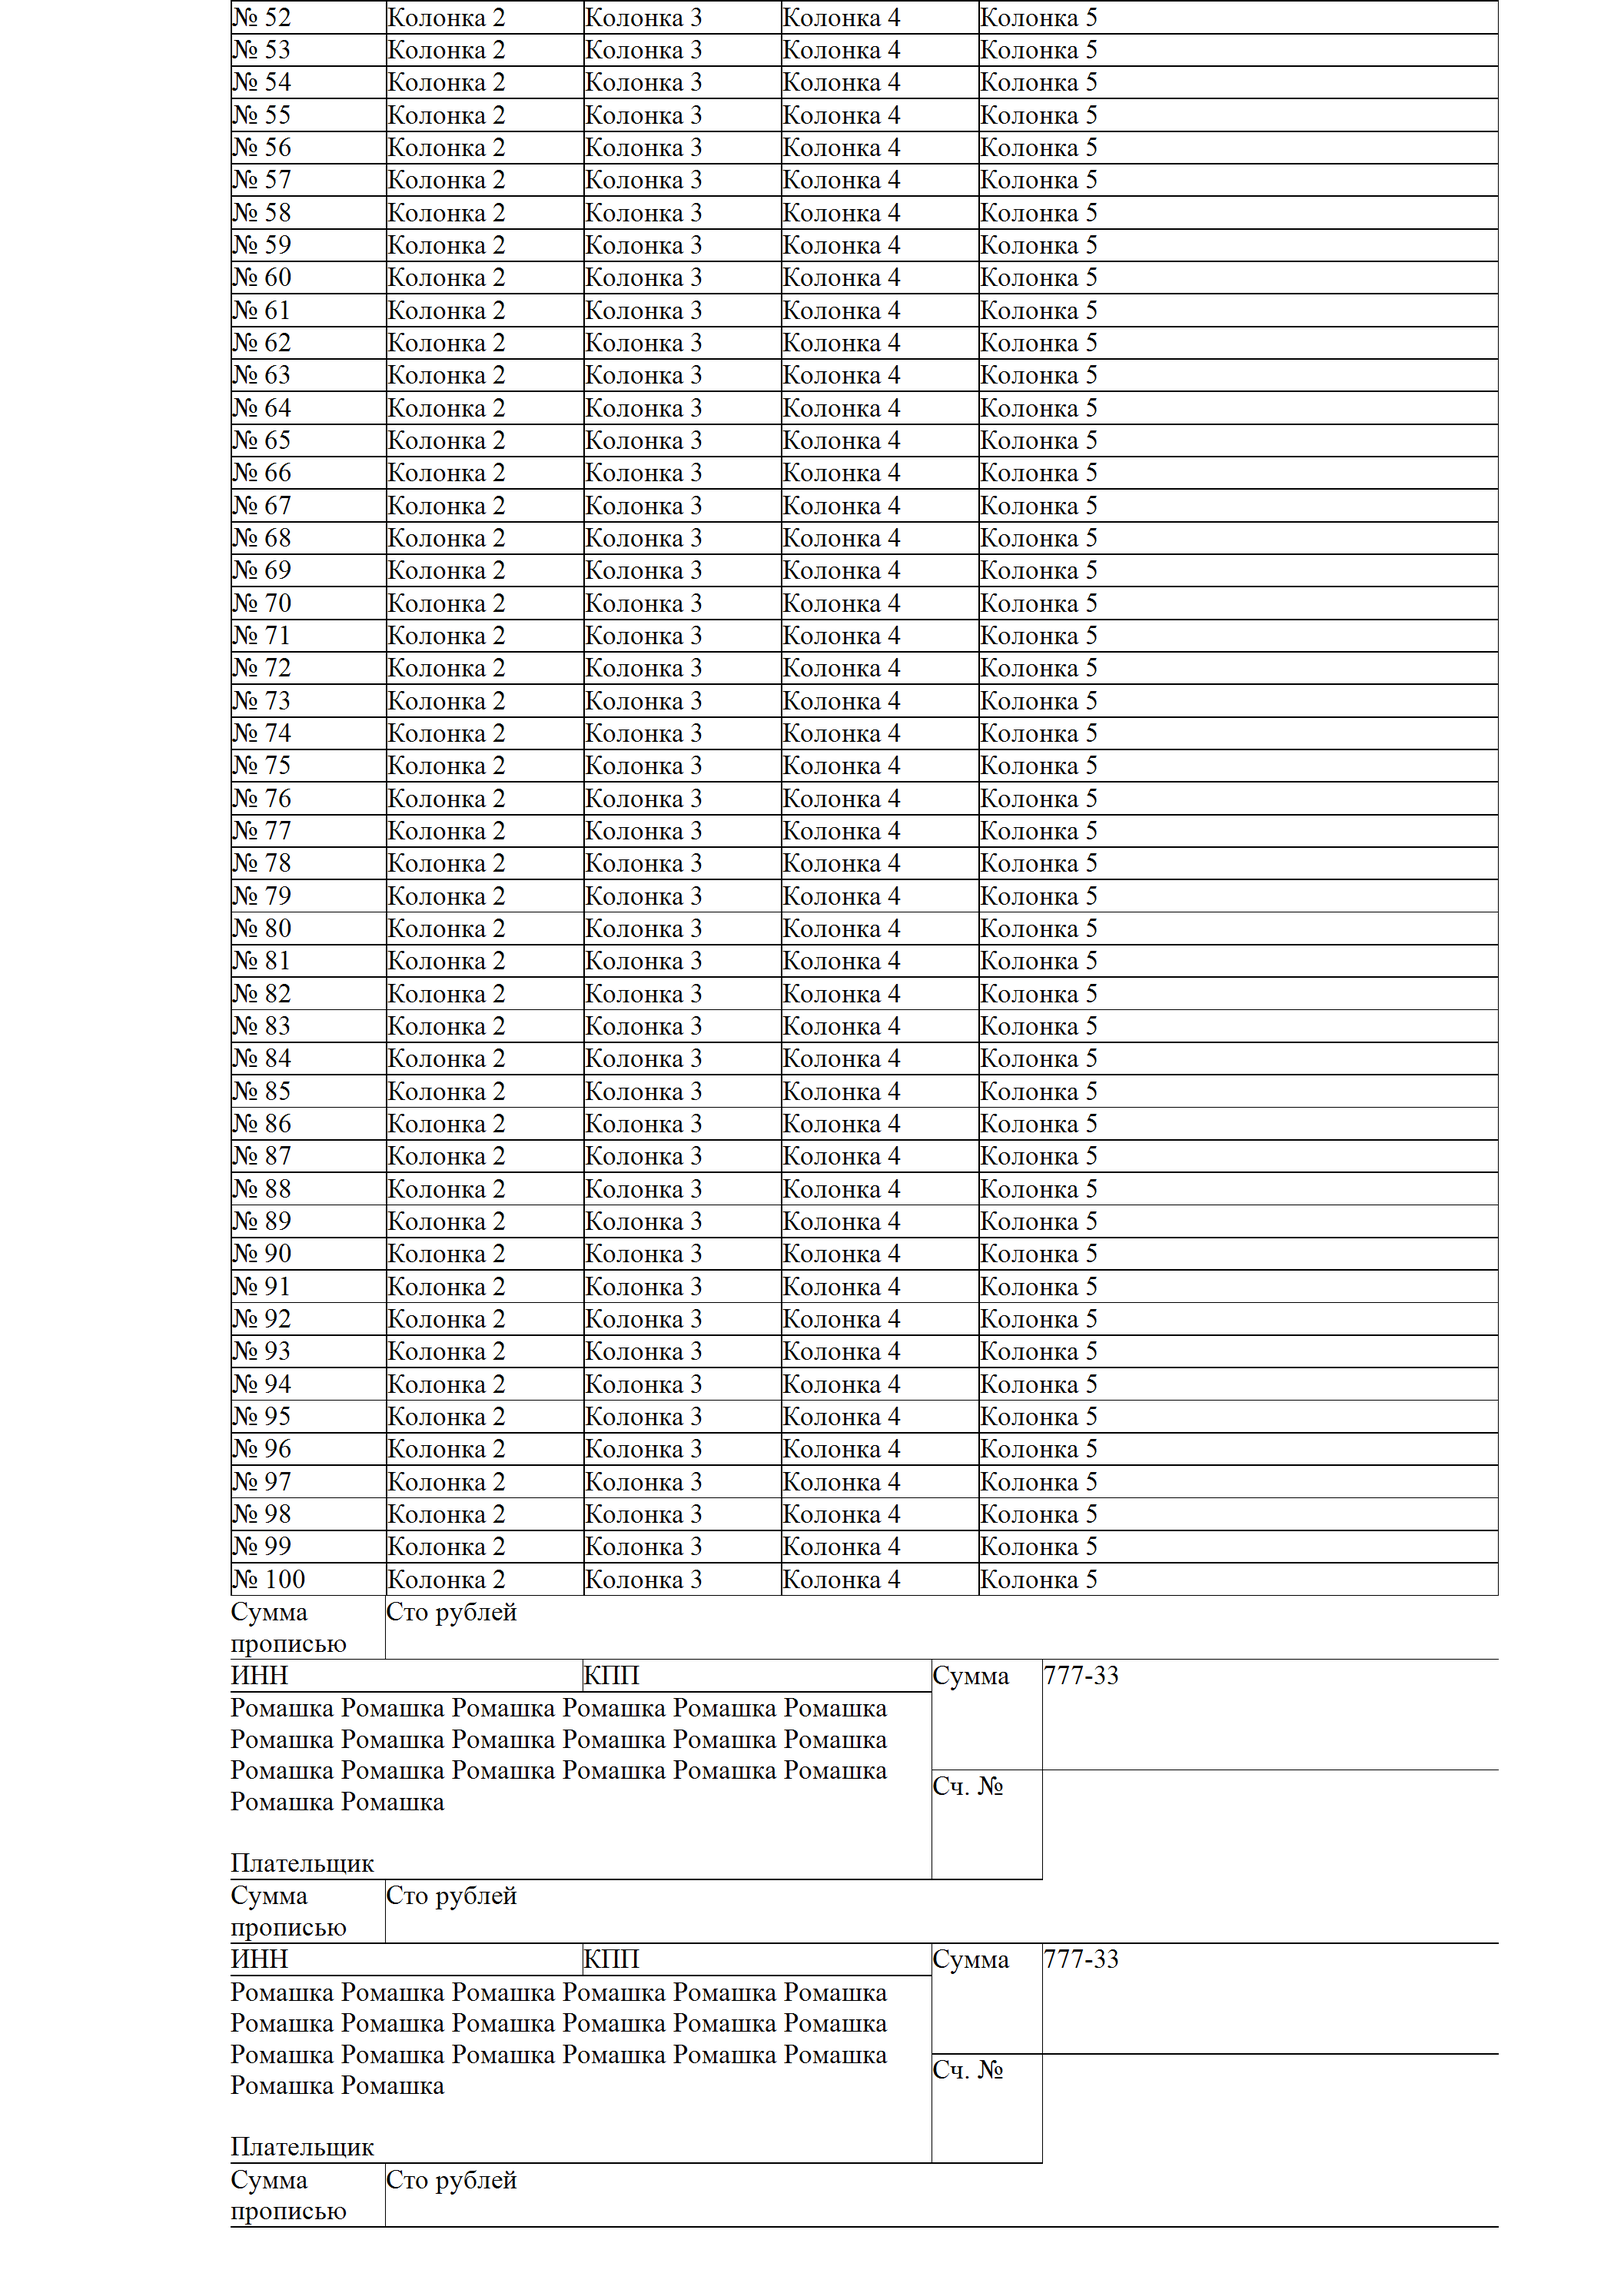
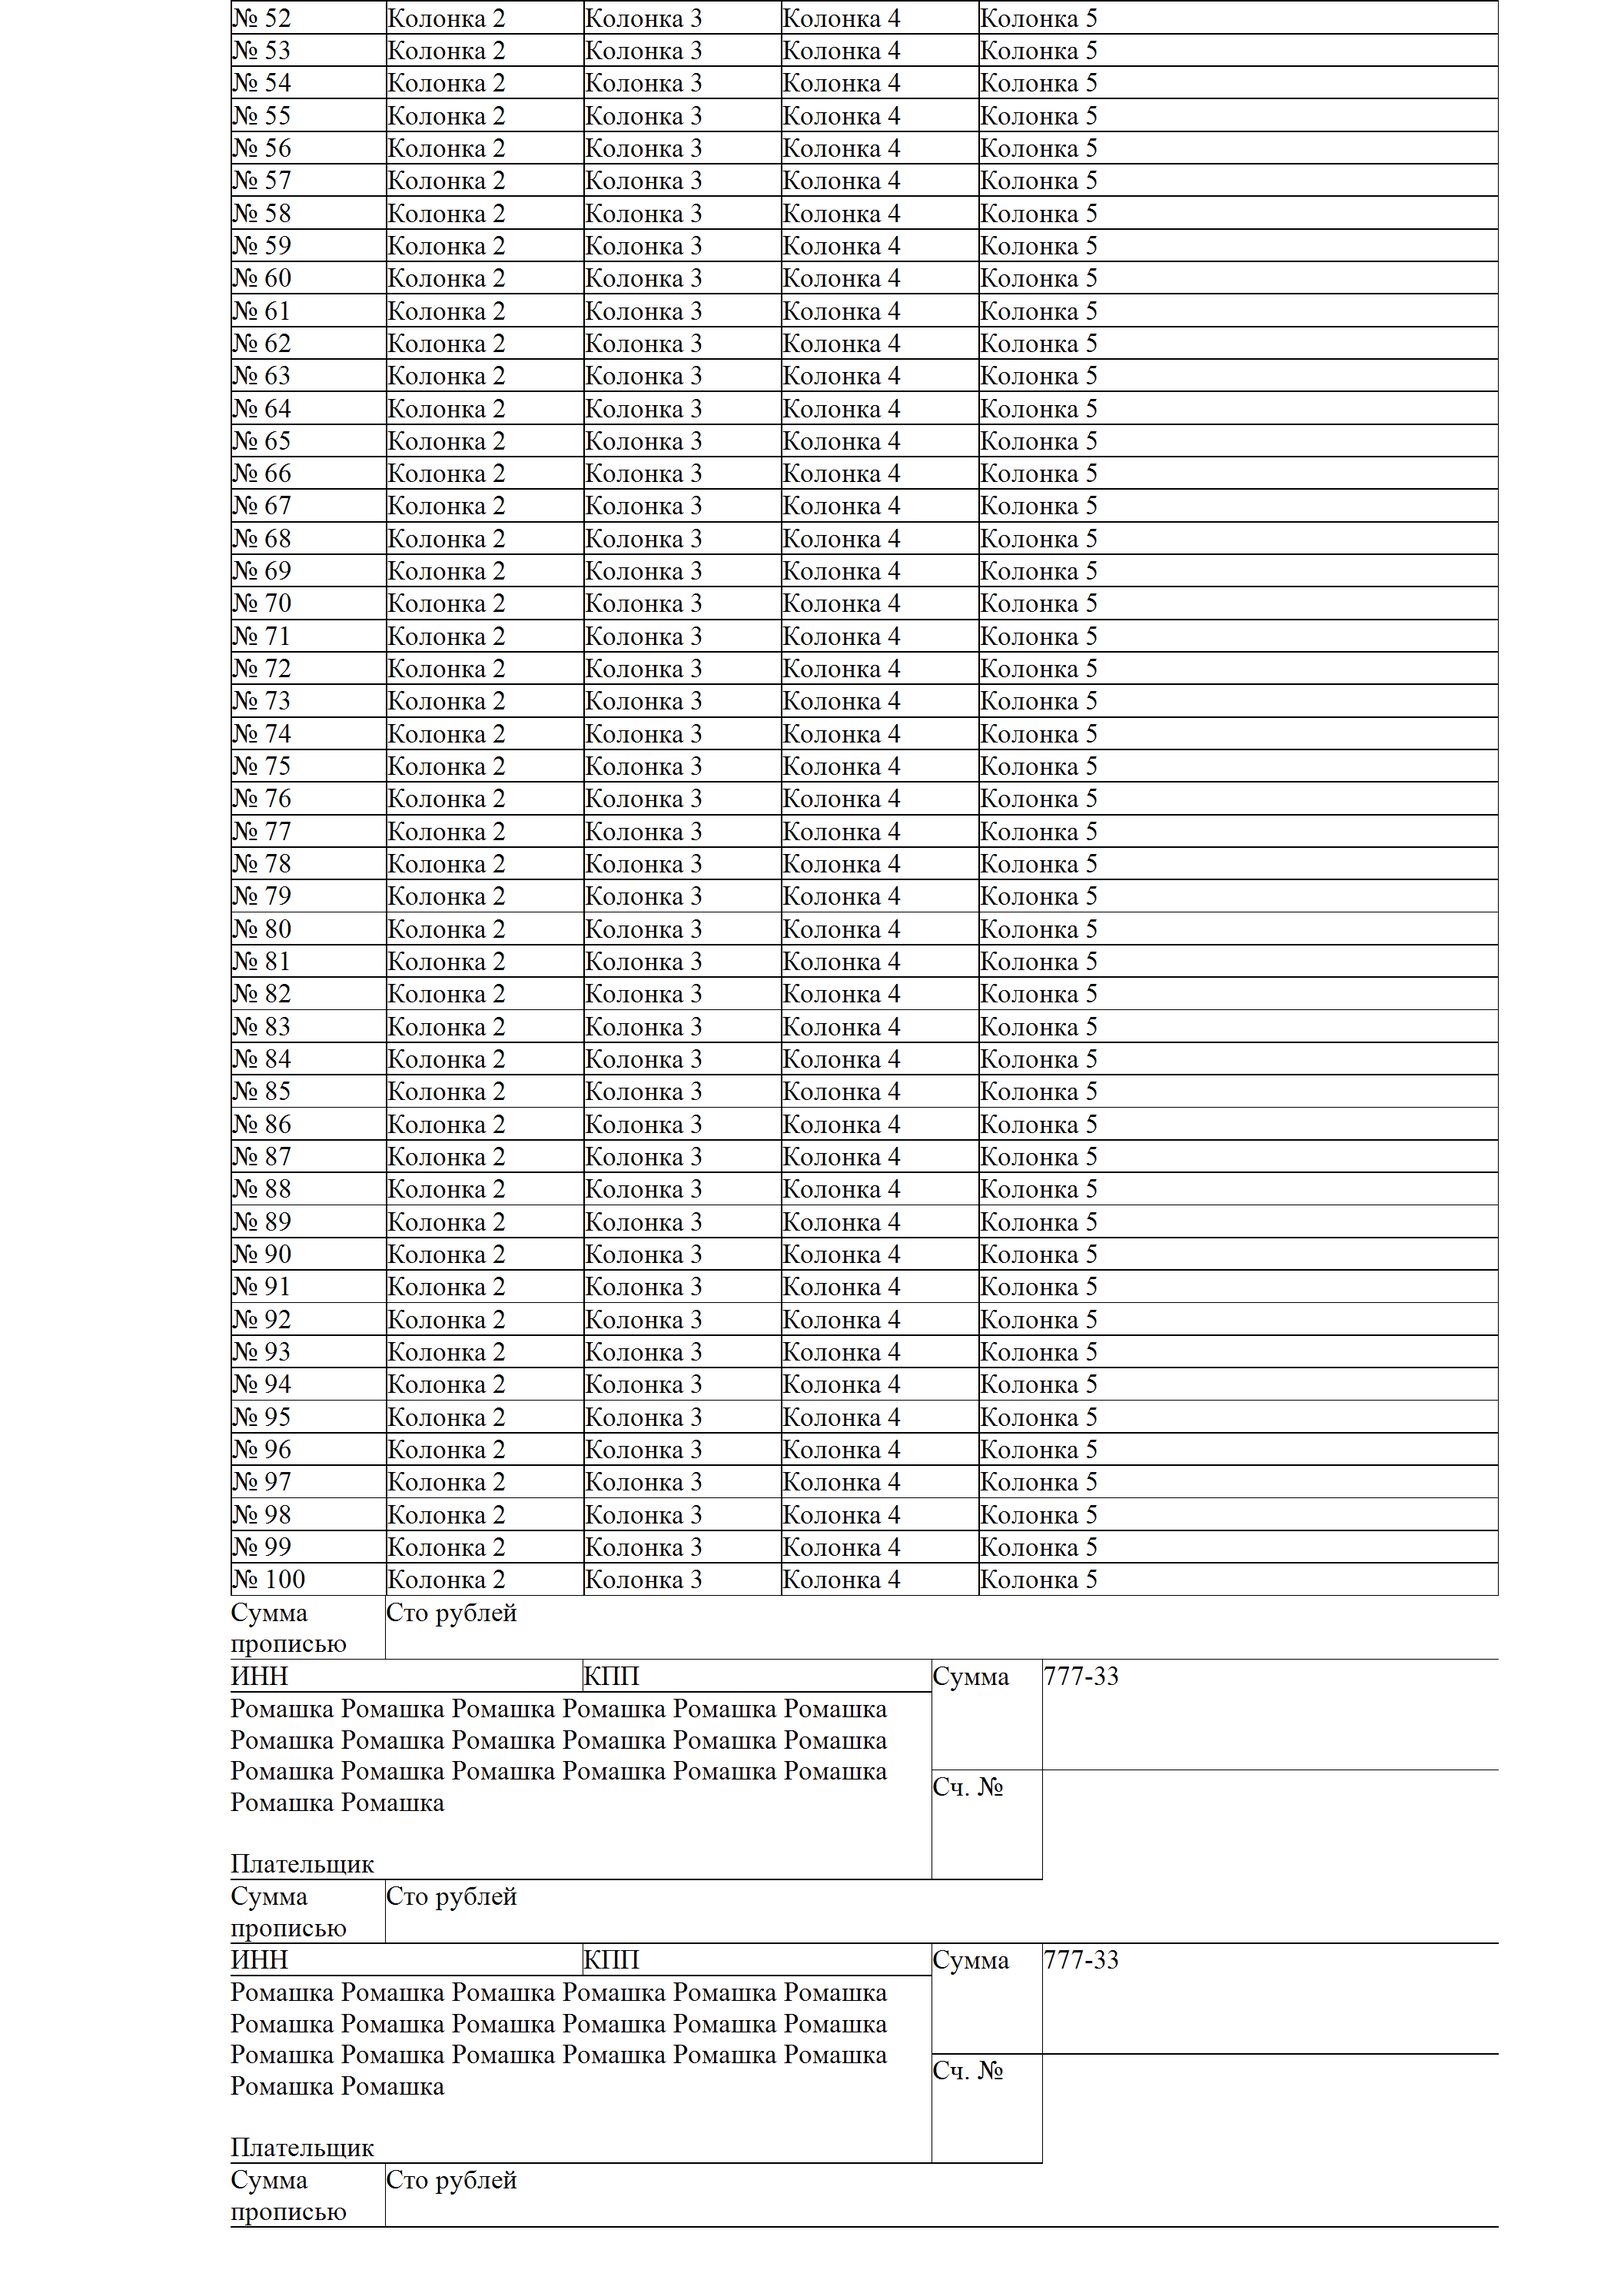
Drawing text in middle of line

diff --git a/PDFsharp/samples/Samples C#/Based on GDI+/TableLayout/Util.cs b/PDFsharp/samples/Samples C#/Based on GDI+/TableLayout/Util.cs
@@ -21,7 +21,11 @@ namespace TableLayout
 			ParagraphAlignment alignment)
 		{
 		    var lineSpace = LineSpace(graphics);
-		    var height = Ascent(graphics);
+		    var height = (lineSpace +
+		            lineSpace * (Font.FontFamily.GetCellAscent(Font.Style) -
+		                Font.FontFamily.GetCellDescent(Font.Style))
+		            / Font.FontFamily.GetLineSpacing(Font.Style)) /
+		        2;
 			foreach (var line in GetLines(graphics, GetWords(text).ToList(), width))
 			{
 				double x;
@@ -53,12 +57,6 @@ namespace TableLayout
             var lineCount = GetLines(graphics, GetWords(text).ToList(), width).Count();
             return LineSpace(graphics) * lineCount;
         }
-
-	    private static double Ascent(XGraphics graphics) => LineSpace(graphics)*CellAscent/CellSpace;
-
-	    private static int CellSpace => Font.FontFamily.GetLineSpacing(Font.Style);
-
-	    private static int CellAscent => Font.FontFamily.GetCellAscent(Font.Style);
 
 	    private static double LineSpace(XGraphics graphics) => Font.GetHeight(graphics);
 

diff --git a/PDFsharp/samples/Samples C#/Based on GDI+/TableLayout.Tests/Program.cs b/PDFsharp/samples/Samples C#/Based on GDI+/TableLayout.Tests/Program.cs
@@ -29,7 +29,7 @@ namespace TableLayout.Tests
 	            Table(document),
 	        });
 	        Process.Start(CreatePdf(document));
-	        Process.Start(SavePng(document, 1));
+	        Process.Start(SavePng(document, 0));
 	    }
 
 	    public static string CreatePdf(Document document)
